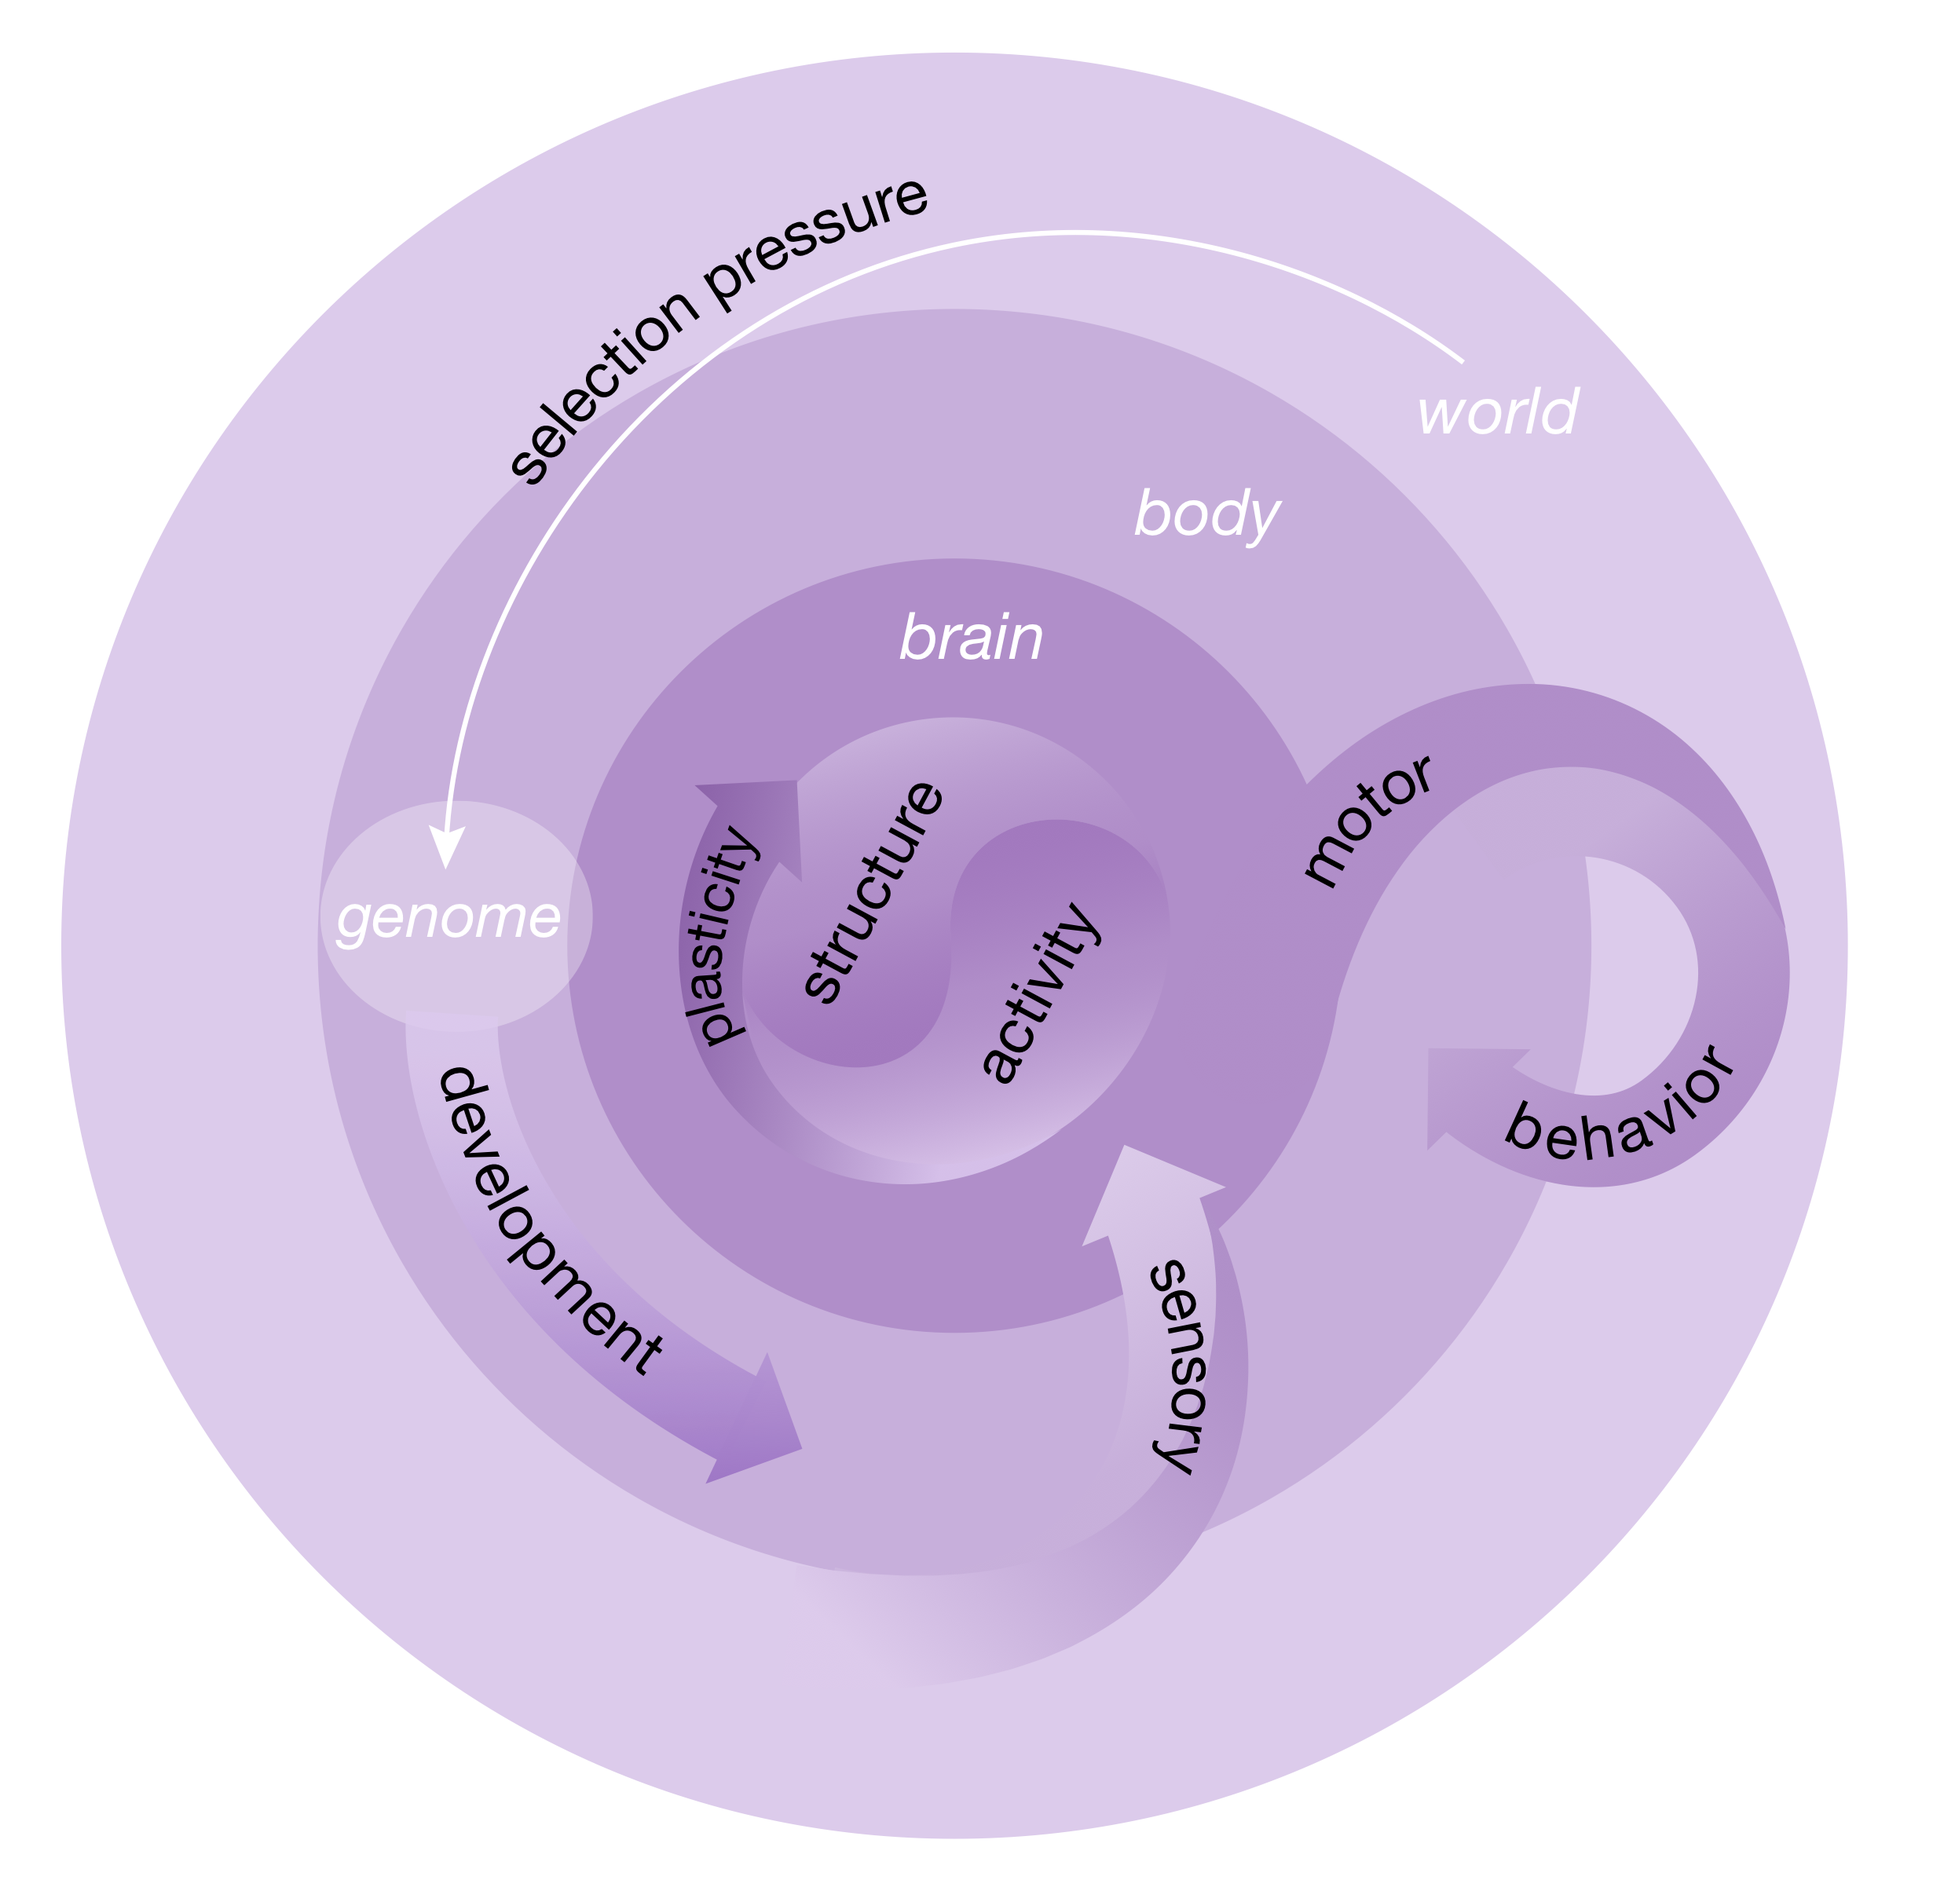
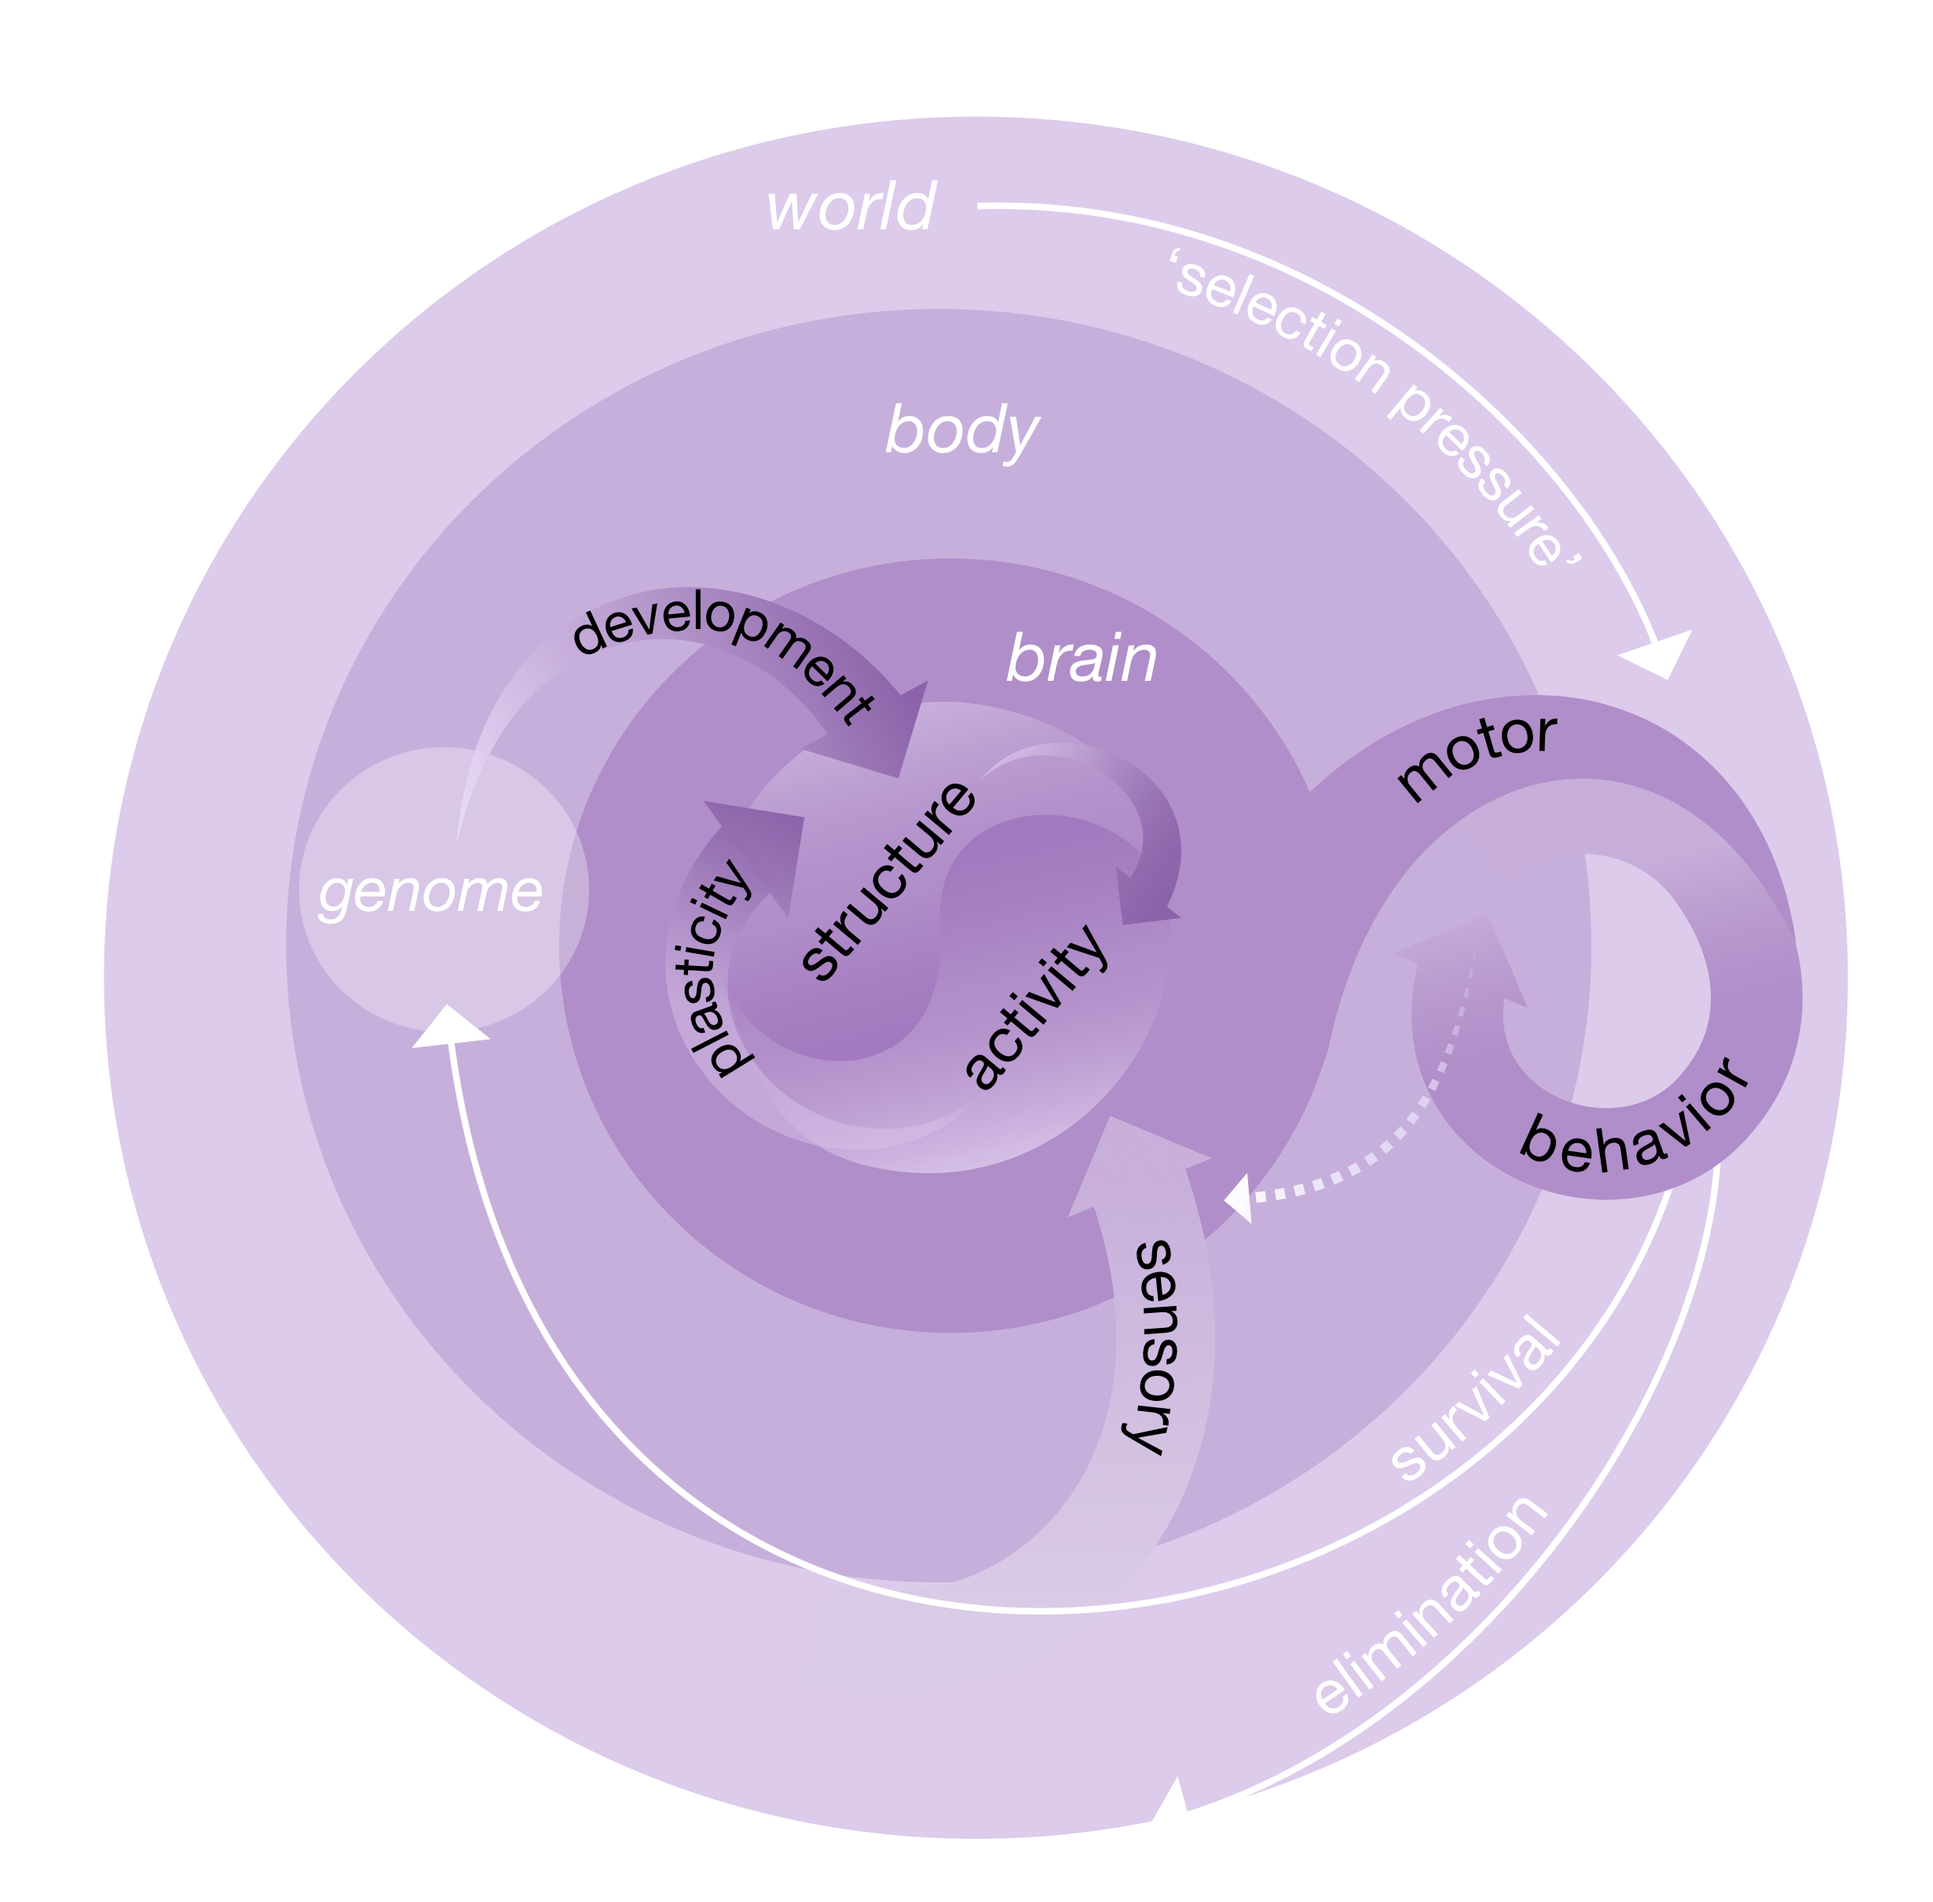
updating sfn18

diff --git a/SFN18.html b/SFN18.html
@@ -122,17 +122,16 @@ Examples:
 
 ---
 
-## Comprehensiveness 
+## Some caveats
 
-- not possible
-- genomes
+- connectomes are not comprehensive, unlike genomes
+- nodes can be abstractions, eg, all neurons type A 
+- attributes can be arbitrary, eg, distribution of synaptic vesicles 
+- connectomics is the study of neural circuitry 
+- canonical examples include:
+      - somatic ganglion circuit of a crab
+      - sound localization circuit of barn owl
 
-
----
-
-## Neural Circuitry
-
-- structure
 
 
 ---
@@ -145,21 +144,38 @@ Examples:
 ## C Elegans 
 
 
+<img src="images/elegans_connectome.png"  style="height: 450px;"/>
+
+
+weighted, directed, multi
+
 ---
 
-## Larval Drosophila Mushroom Body 
+##  Drosophila Mushroom Body 
 
+<img src="images/drosophilaMB_connectome.png"  style="height: 450px;"/>
+
+- binary, directed
 
 ---
 
 ## Mouse Ex Vivo Diffusion MRI 
 
 
+<img src="images/mousedMRI_connectome.png"  style="height: 450px;"/>
+
+
+- weighted, undirected 
+
+
 ---
 
-## Human Functional & Diffusion MRI 
+## Human  MRI 
 
 
+<img src="images/human_connectome.png"  style="height: 450px;"/>
+
+- weighted, undirected, multi (dense)
 
 
 
@@ -173,26 +189,28 @@ Examples:
 
 ## Conceptual Model 
 
+- Constituents
+  - World
+  - Body 
+  - Brain: structure 
+      - Structure
+      - Activity
+- Spiral Loops 
+      - Brain (fast/small): structure  $\Leftrightarrow$ activity (plasticity)
+      - Body (medium): motor $\Leftrightarrow$ sensory (ego- & allo-centric)
+      - World (slow/big): behavior $\Leftrightarrow$ genome $\Leftrightarrow$ body/brain
 
-- world
-- body 
-- brain 
-      - structure
-      - activity
+
+---
+class: center 
+
+<img src="images/brain-body-world.png"  style="height: 600px;"/>
+
 
 
 ---
 
-## Interwined Causal Loops 
-
-- small and Fast
-- medium
-- slow and large
-
-
----
-
-## Implications 
+## Connectomes as Mechanisms 
 
 
 The connectome is the mechanism by which the genome can encode its preferred behaviors, that, when combined with the body (and physics) yields the desired behaviors with sufficiently high probability to help the organism win the evolutionary game its niche imposes on it.
@@ -202,37 +220,47 @@ The connectome is the mechanism by which the genome can encode its preferred beh
 
 ## Encoding and Decoding
 
-1. Encoding
-2. Decoding
+1. Encoding:  genomes $\Rightarrow$ dynamic connectomes
+2. Decoding:  connectomes $\Rightarrow$ behaviors
 
 
 ---
 
 ## A Statistical Formalization of Connectome Coding
 
-- r.v.
-- distribution 
-- conditional 
+- Random variables: X, Y
+- Distributions: X ~ P, Y ~ P 
+- Conditionals:  P[X | Y], P[Y | X] 
+
+Formally, codes are conditional distributions.
 
 ---
 
 ## Constituents 
 
-- A 
-- B 
-- C 
-- D 
-- E 
+- A: brain activity 
+- B: body movement  
+- C: connectome 
+- D: development (genome) 
+- E: environment (world) 
 
 ---
 
 ## Abstract Connectome Codes 
 
+- P[C | D]: prob of connectome, given a genome 
+- P[B | C]: prob of body movement, given a connectome
+- P[A,B | C]: prob of  activity and body, given a connectome 
+- P[A B | C, D]: etc....
 
 ---
 
 ## Causal Connectome Codes 
 
+- Let $\_i$ denote a generation 
+- $D\_i \Rightarrow C\_i \Leftrightarrow A\_i \Leftrightarrow B\_i \Leftrightarrow E\_i \Rightarrow D\_{i+1}$
+
+Intertwined spiral loops.
 
 ---
 
